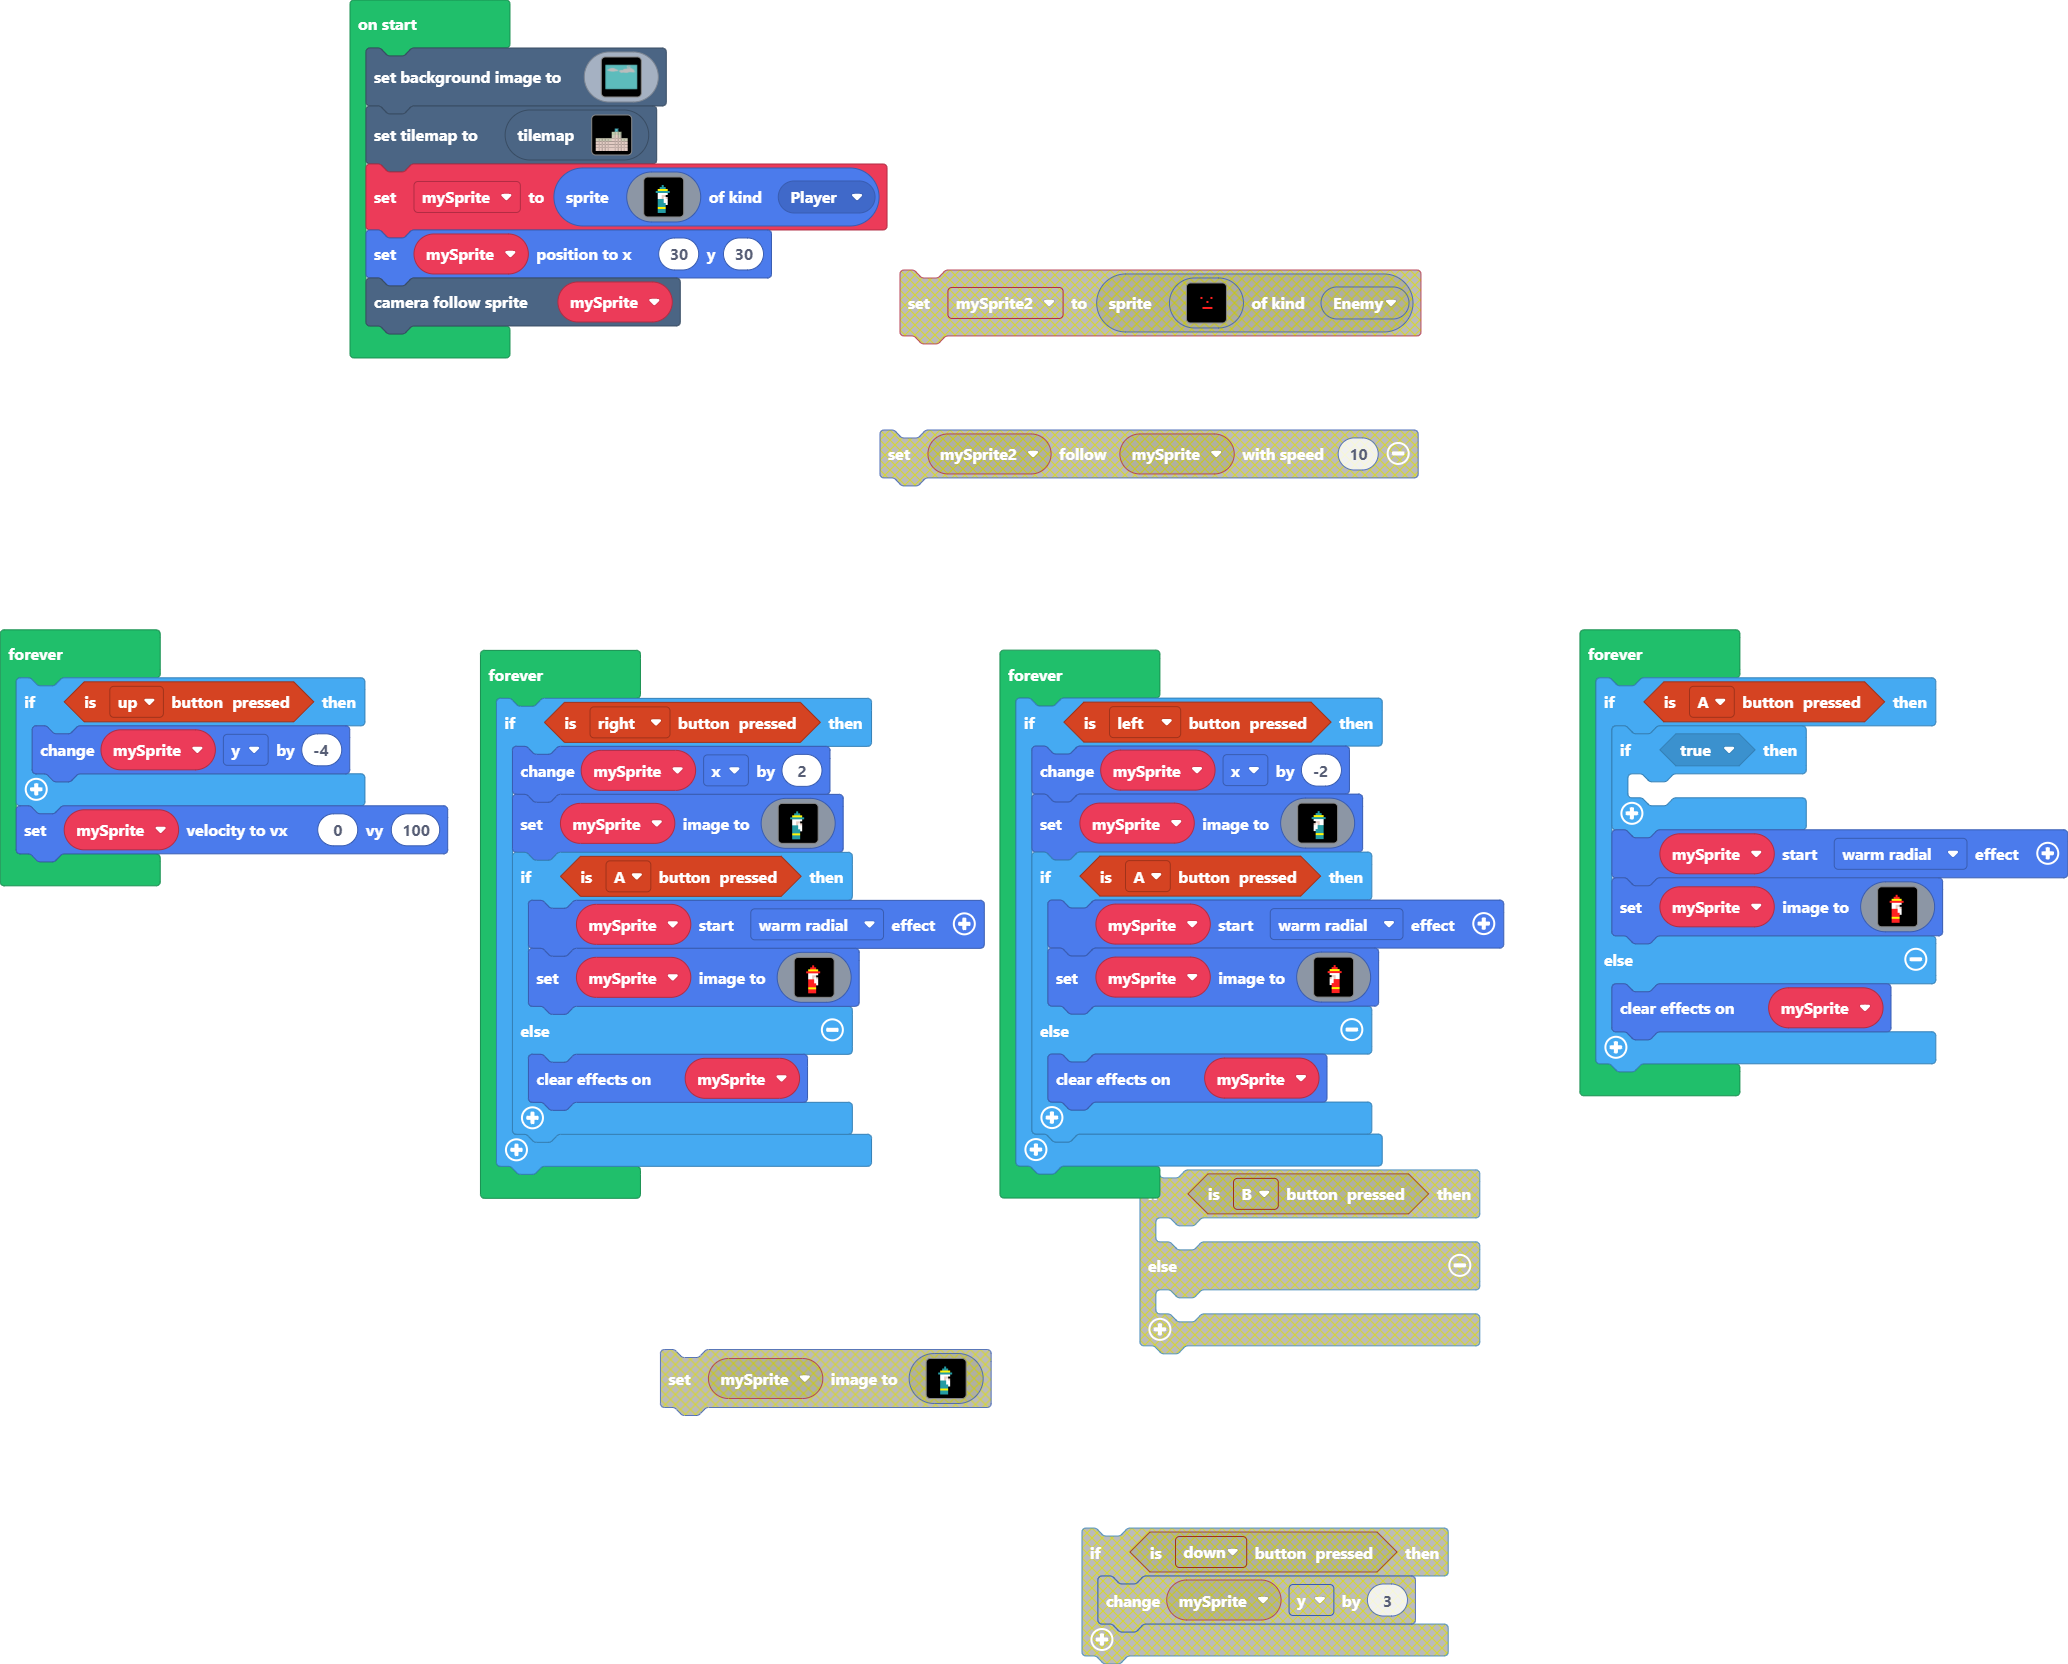
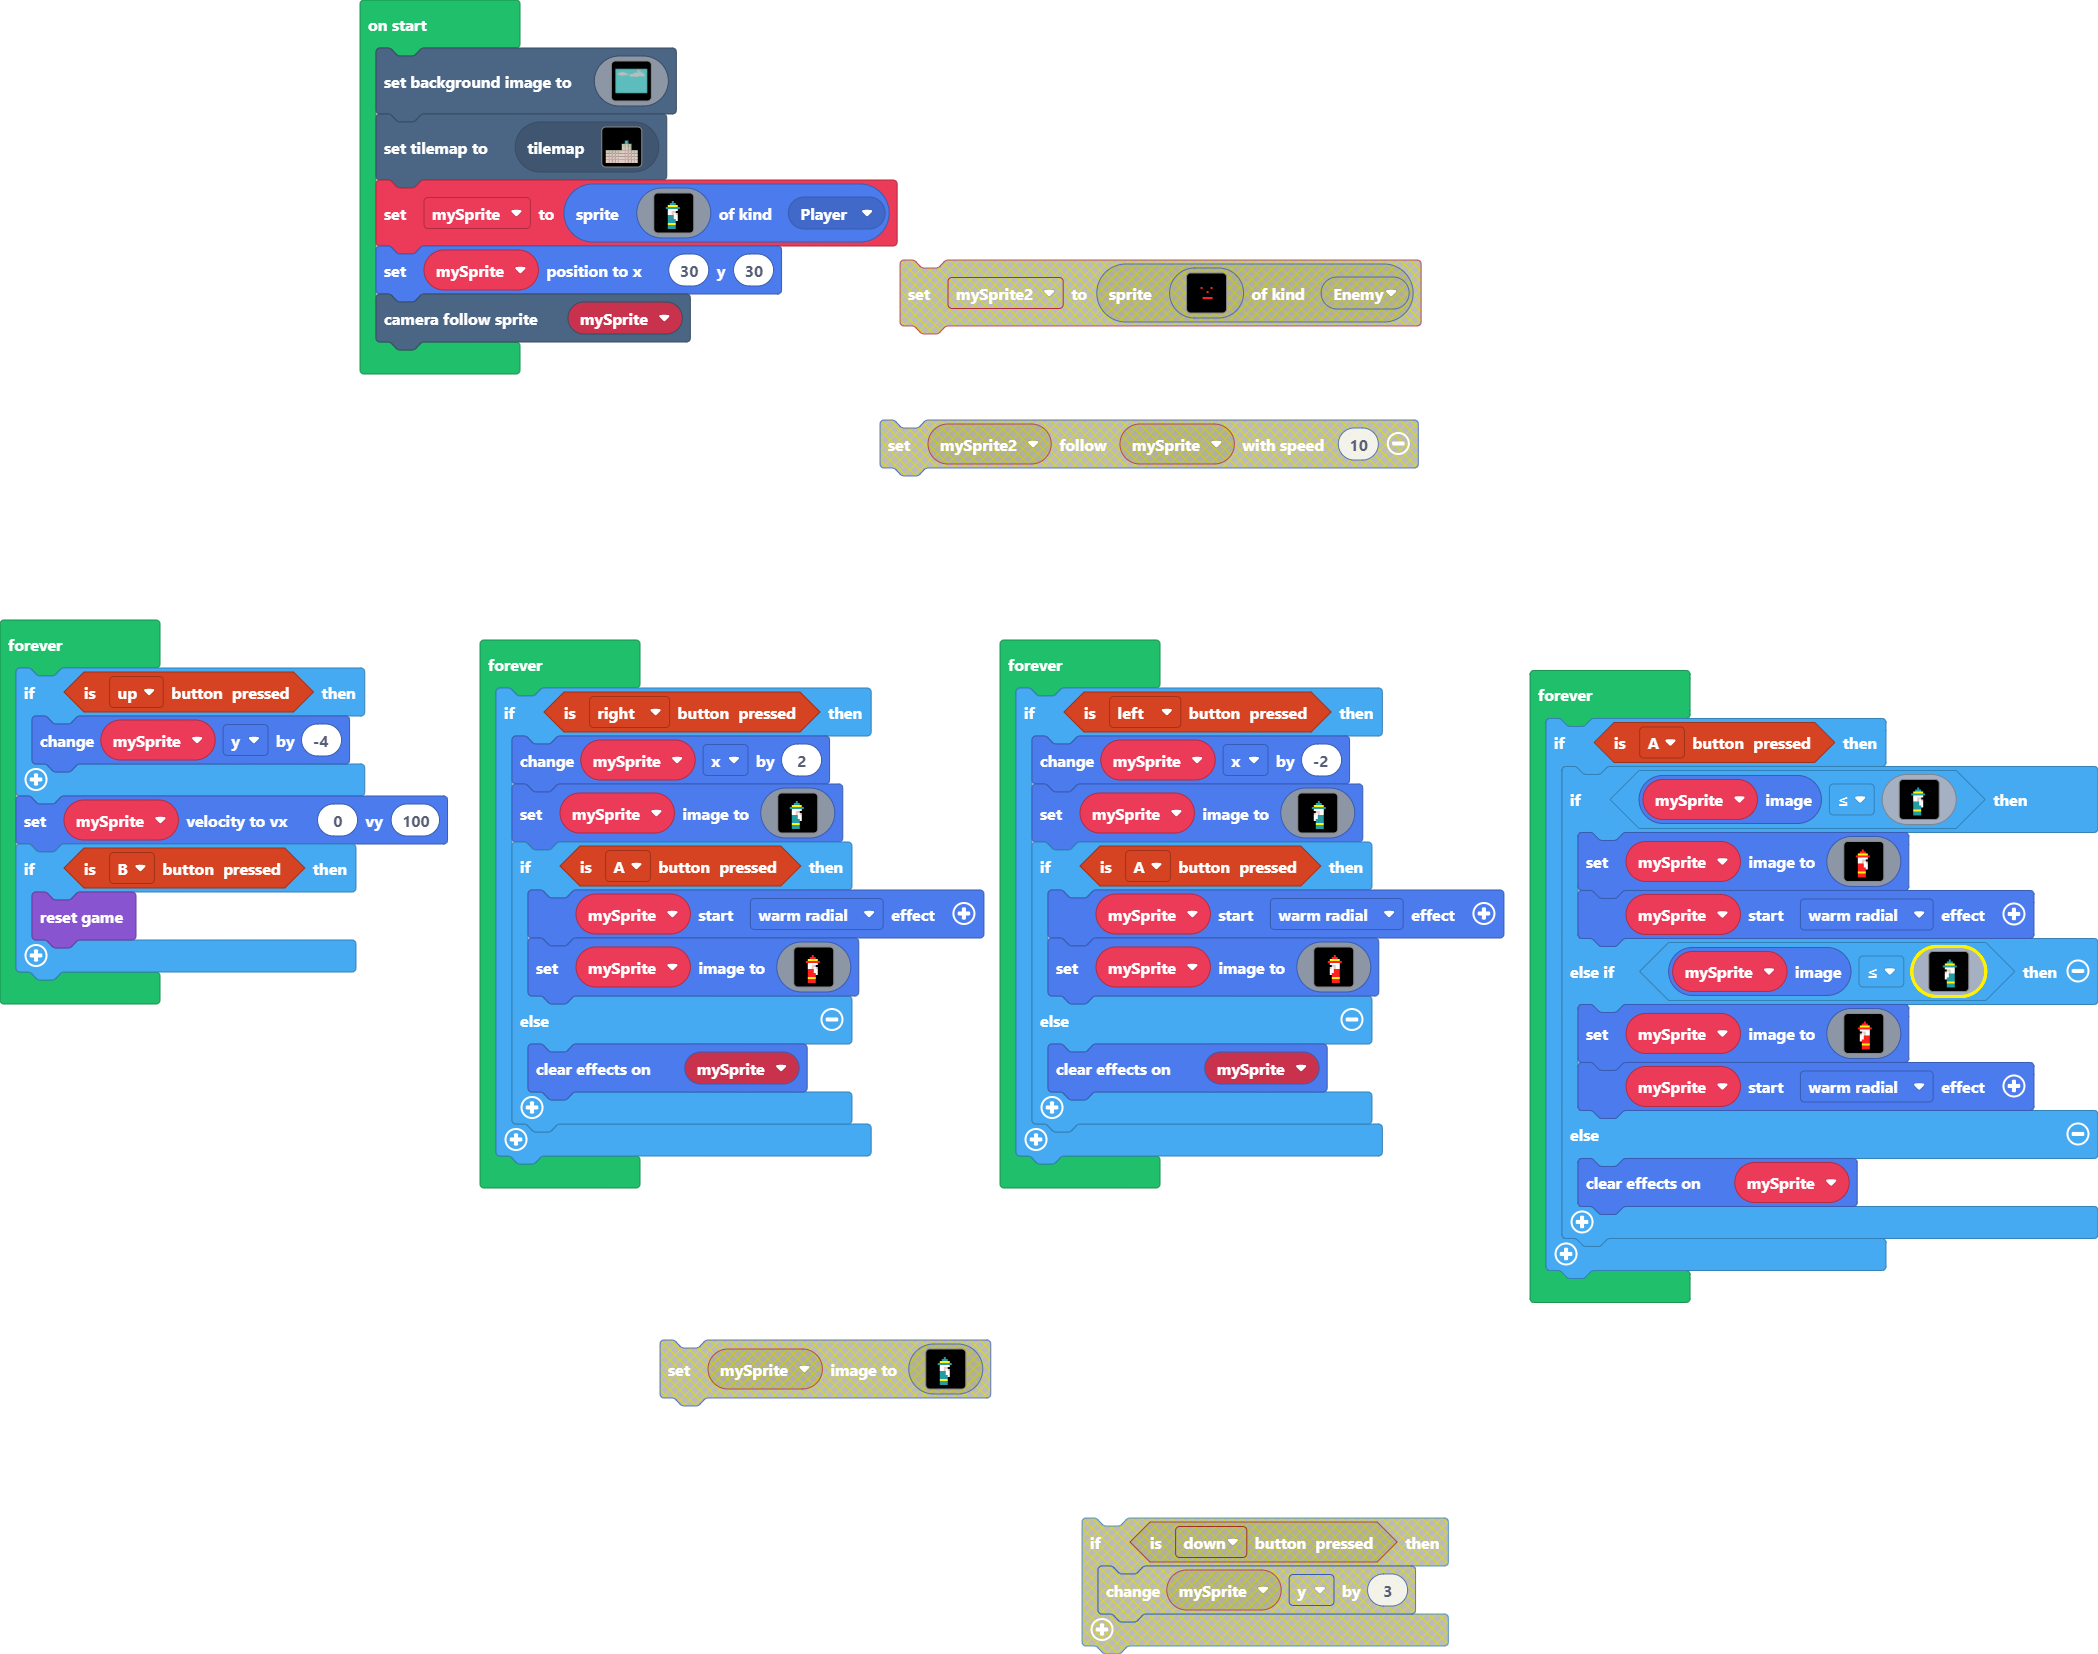
Update main.blocks, main.ts

diff --git a/main.ts b/main.ts
@@ -8,6 +8,9 @@ forever(function () {
         mySprite.y += -4
     }
     mySprite.setVelocity(0, 100)
+    if (controller.B.isPressed()) {
+        game.reset()
+    }
 })
 forever(function () {
     if (controller.right.isPressed()) {
@@ -35,12 +38,14 @@ forever(function () {
 })
 forever(function () {
     if (controller.A.isPressed()) {
-        if (true) {
-        	
+        if (mySprite.image <= assets.image`dah Wizard`) {
+            mySprite.setImage(assets.image`dah Wizard but red0`)
+            mySprite.startEffect(effects.warmRadial)
+        } else if (mySprite.image <= assets.image`dah Wizard but left`) {
+            mySprite.setImage(assets.image`dah Wizard but red but left`)
+            mySprite.startEffect(effects.warmRadial)
+        } else {
+            effects.clearParticles(mySprite)
         }
-        mySprite.startEffect(effects.warmRadial)
-        mySprite.setImage(assets.image`dah Wizard but red0`)
-    } else {
-        effects.clearParticles(mySprite)
     }
 })
